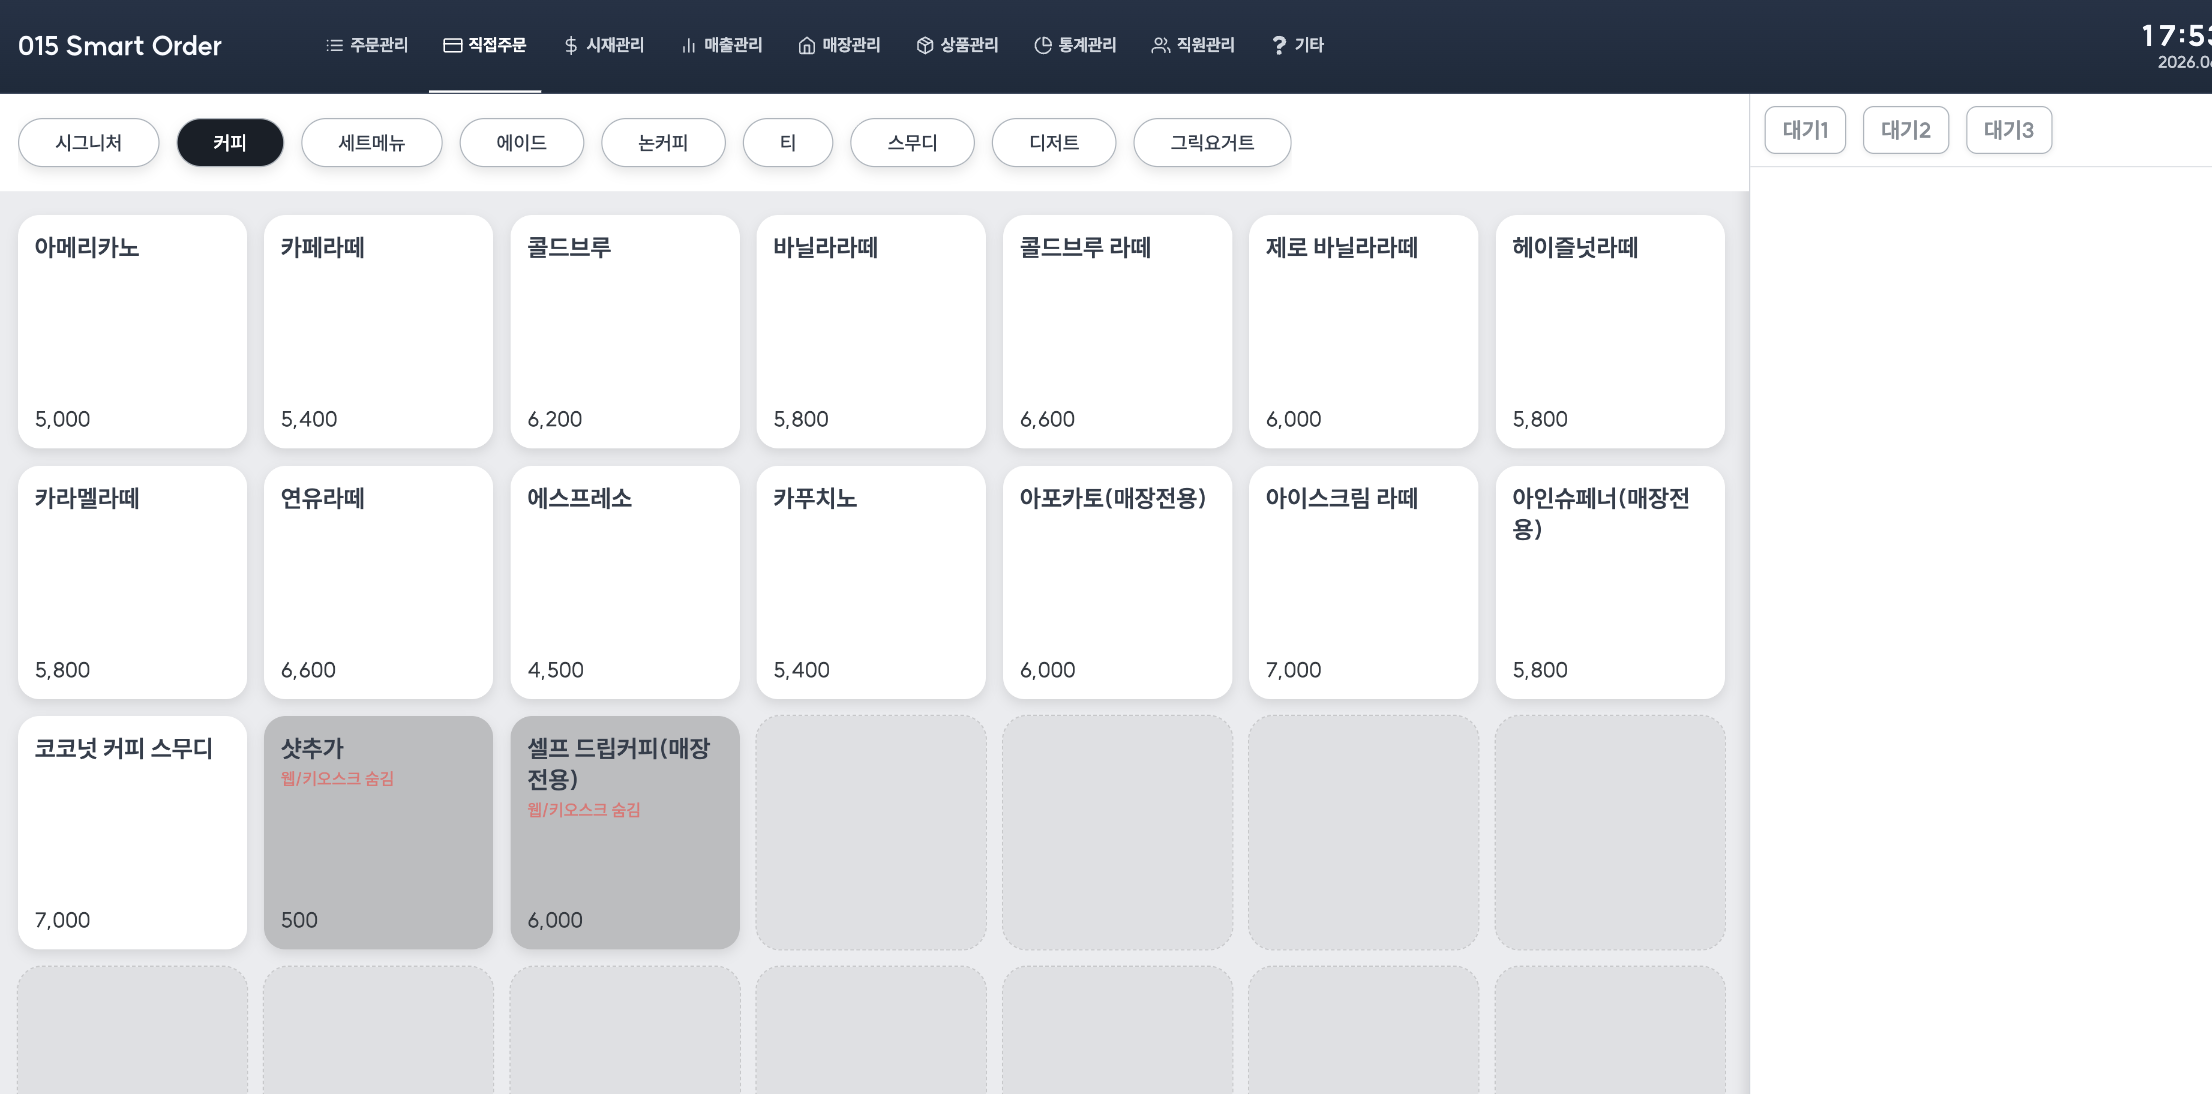
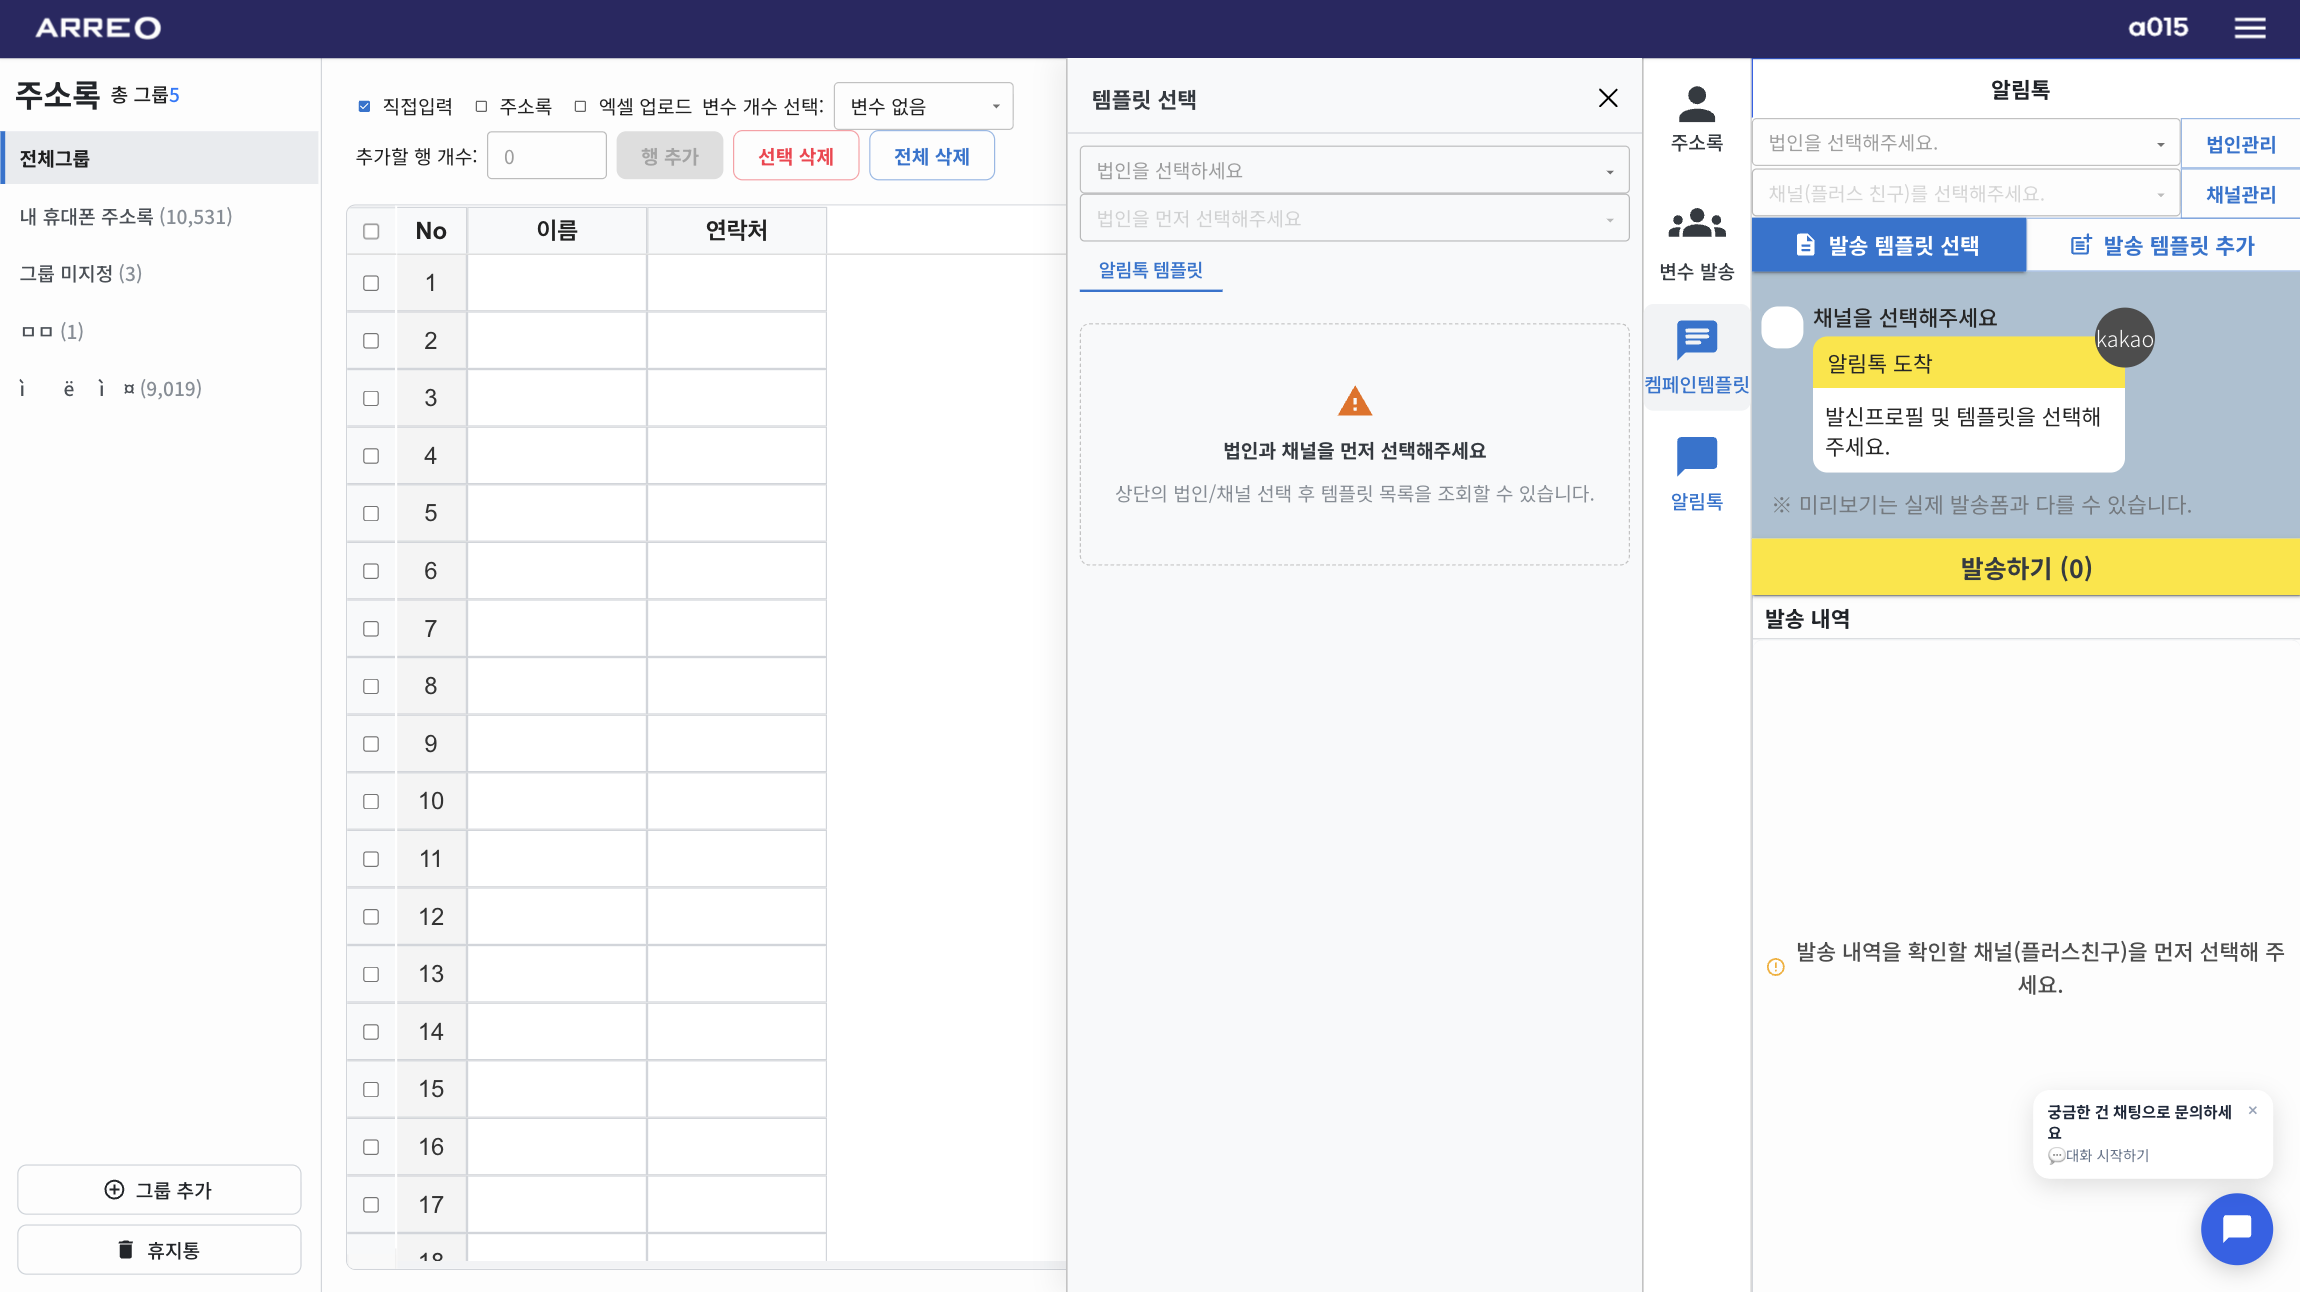
fix: reorder 015웹 images and fix TiltCard hover black bug
- Move 2nd image (빠빠 web) to first slot in 015웹
- Replace web015-5.png with new 5:40 screenshot
- Fix card hover black flash: transparent bg -> opaque dark (#0f0f1b/#111111)
  (transparent bg + GPU 3D compositing rendered black)
- Add backface-visibility:hidden to TiltCard for stable 3D rendering

diff --git a/apps/web/src/components/sections/ProjectsSection.tsx b/apps/web/src/components/sections/ProjectsSection.tsx
@@ -190,7 +190,7 @@ function TiltCard({
       onMouseMove={handleMouseMove}
       onMouseLeave={handleMouseLeave}
       onClick={onClick}
-      className={`relative rounded-2xl transition-shadow duration-300 group cursor-pointer ${className}`}
+      className={`relative rounded-2xl transition-shadow duration-300 group cursor-pointer [backface-visibility:hidden] ${className}`}
     >
       <motion.div
         style={{
@@ -376,8 +376,8 @@ function ProjectCard({
       onClick={onClick}
       className={`w-full border p-6 ${
         project.featured
-          ? "border-[#818cf8]/20 bg-[#818cf8]/5 hover:border-[#818cf8]/40 hover:shadow-[0_0_32px_rgba(129,140,248,0.1)]"
-          : "border-white/8 bg-white/2 hover:border-white/16 hover:shadow-[0_0_24px_rgba(255,255,255,0.04)]"
+          ? "border-[#818cf8]/20 bg-[#0f0f1b] hover:border-[#818cf8]/40 hover:shadow-[0_0_32px_rgba(129,140,248,0.1)]"
+          : "border-white/8 bg-[#111111] hover:border-white/16 hover:shadow-[0_0_24px_rgba(255,255,255,0.04)]"
       }`}
     >
       {project.images && project.images.length > 0 && (

diff --git a/apps/web/src/data/projects.ts b/apps/web/src/data/projects.ts
@@ -107,8 +107,8 @@ export const projects: Project[] = [
     company: "스탠다드네트웍스",
     type: "company",
     images: [
-      "/images/projects/web015-2.png",
       "/images/projects/web015-3.png",
+      "/images/projects/web015-2.png",
       "/images/projects/web015-4.png",
       "/images/projects/web015-5.png",
     ],